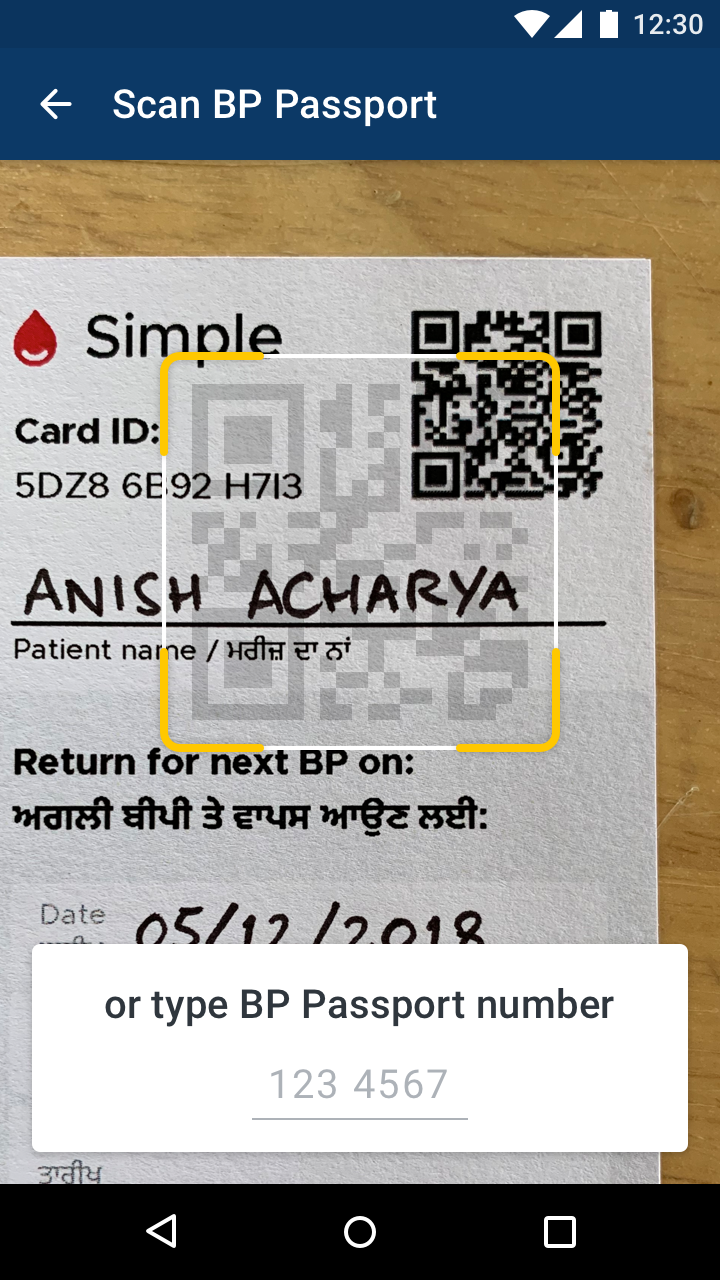
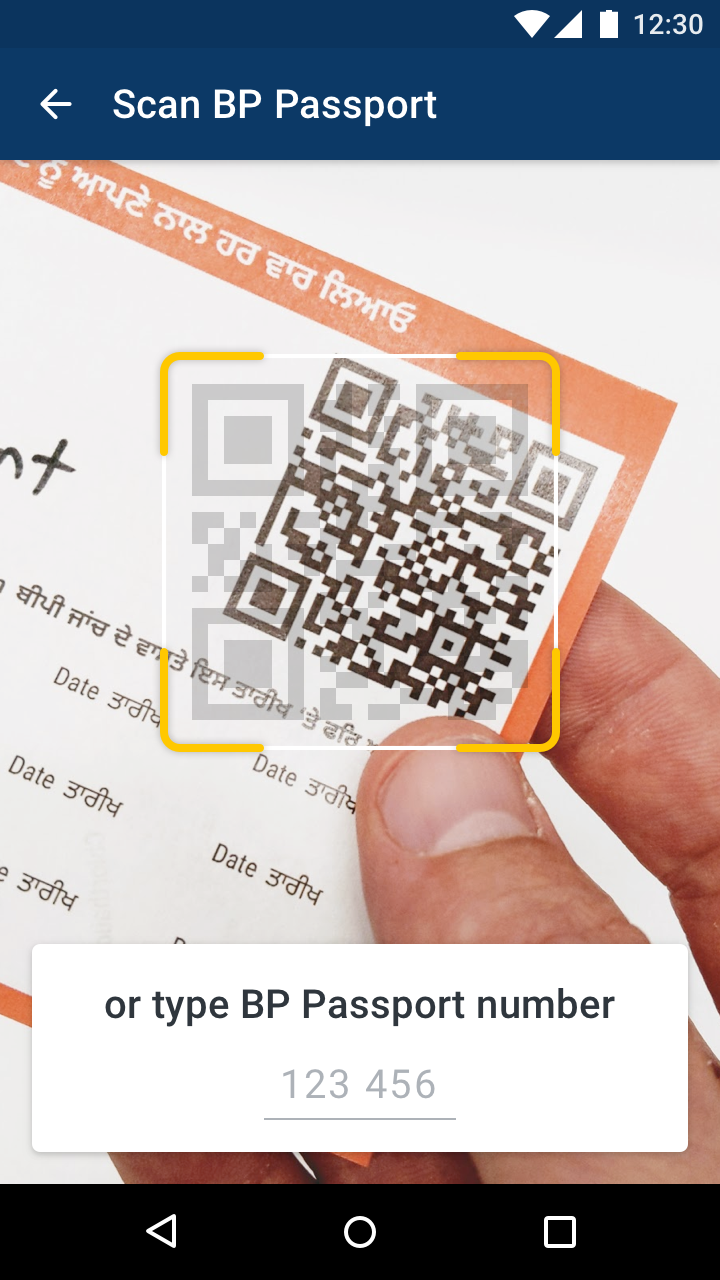
Site updated to e129a20

diff --git a/hi/screens/index.html b/hi/screens/index.html
@@ -90,6 +90,13 @@
         <i class="fas fa-search-plus"></i>
     </a>
     
+    <a href="../../images/screens/05-Scan-passport.png" class="mobile-screen-wrapper">
+        <span class="title"><strong>Scan "BP Passport"</strong></span>
+        <span class="mobile-screen" style="background-image: url(../../images/screens/05-Scan-passport.png);"><span class="mobile-screen-overlay"></span></span>
+        <span class="desc">Patients are given a paper ID called a BP Passport. Scan the QR code to immediately see the correct patient in Simple.</span>
+        <i class="fas fa-search-plus"></i>
+    </a>
+    
     <a href="../../images/screens/02-Patient-summary.png" class="mobile-screen-wrapper">
         <span class="title"><strong>Patient summary</strong></span>
         <span class="mobile-screen" style="background-image: url(../../images/screens/02-Patient-summary.png);"><span class="mobile-screen-overlay"></span></span>
@@ -128,7 +135,7 @@
     <a href="../../images/screens/04-Schedule.png" class="mobile-screen-wrapper">
         <span class="title"><strong>Schedule next visit</strong></span>
         <span class="mobile-screen" style="background-image: url(../../images/screens/04-Schedule.png);"><span class="mobile-screen-overlay"></span></span>
-        <span class="desc">At the end of each encounter, users are prompted to schedule the next visit. Patients who miss visits are prompted with an SMS reminder and then are added to an "Overdue" list for follow-up by a healthcare worker.</span>
+        <span class="desc">At the end of each encounter, users schedule the next visit date. Patients who miss visits are prompted with an SMS reminder and then are added to an "Overdue" list for follow-up by a healthcare worker.</span>
         <i class="fas fa-search-plus"></i>
     </a>
     

diff --git a/pn/screens/index.html b/pn/screens/index.html
@@ -84,6 +84,13 @@
         <i class="fas fa-search-plus"></i>
     </a>
     
+    <a href="../../images/screens/05-Scan-passport.png" class="mobile-screen-wrapper">
+        <span class="title"><strong>Scan "BP Passport"</strong></span>
+        <span class="mobile-screen" style="background-image: url(../../images/screens/05-Scan-passport.png);"><span class="mobile-screen-overlay"></span></span>
+        <span class="desc">Patients are given a paper ID called a BP Passport. Scan the QR code to immediately see the correct patient in Simple.</span>
+        <i class="fas fa-search-plus"></i>
+    </a>
+    
     <a href="../../images/screens/02-Patient-summary.png" class="mobile-screen-wrapper">
         <span class="title"><strong>Patient summary</strong></span>
         <span class="mobile-screen" style="background-image: url(../../images/screens/02-Patient-summary.png);"><span class="mobile-screen-overlay"></span></span>
@@ -122,7 +129,7 @@
     <a href="../../images/screens/04-Schedule.png" class="mobile-screen-wrapper">
         <span class="title"><strong>Schedule next visit</strong></span>
         <span class="mobile-screen" style="background-image: url(../../images/screens/04-Schedule.png);"><span class="mobile-screen-overlay"></span></span>
-        <span class="desc">At the end of each encounter, users are prompted to schedule the next visit. Patients who miss visits are prompted with an SMS reminder and then are added to an "Overdue" list for follow-up by a healthcare worker.</span>
+        <span class="desc">At the end of each encounter, users schedule the next visit date. Patients who miss visits are prompted with an SMS reminder and then are added to an "Overdue" list for follow-up by a healthcare worker.</span>
         <i class="fas fa-search-plus"></i>
     </a>
     

diff --git a/zh/screens/index.html b/zh/screens/index.html
@@ -84,6 +84,13 @@
         <i class="fas fa-search-plus"></i>
     </a>
     
+    <a href="../../images/screens/05-Scan-passport.png" class="mobile-screen-wrapper">
+        <span class="title"><strong>Scan "BP Passport"</strong></span>
+        <span class="mobile-screen" style="background-image: url(../../images/screens/05-Scan-passport.png);"><span class="mobile-screen-overlay"></span></span>
+        <span class="desc">Patients are given a paper ID called a BP Passport. Scan the QR code to immediately see the correct patient in Simple.</span>
+        <i class="fas fa-search-plus"></i>
+    </a>
+    
     <a href="../../images/screens/02-Patient-summary.png" class="mobile-screen-wrapper">
         <span class="title"><strong>Patient summary</strong></span>
         <span class="mobile-screen" style="background-image: url(../../images/screens/02-Patient-summary.png);"><span class="mobile-screen-overlay"></span></span>
@@ -122,7 +129,7 @@
     <a href="../../images/screens/04-Schedule.png" class="mobile-screen-wrapper">
         <span class="title"><strong>Schedule next visit</strong></span>
         <span class="mobile-screen" style="background-image: url(../../images/screens/04-Schedule.png);"><span class="mobile-screen-overlay"></span></span>
-        <span class="desc">At the end of each encounter, users are prompted to schedule the next visit. Patients who miss visits are prompted with an SMS reminder and then are added to an "Overdue" list for follow-up by a healthcare worker.</span>
+        <span class="desc">At the end of each encounter, users schedule the next visit date. Patients who miss visits are prompted with an SMS reminder and then are added to an "Overdue" list for follow-up by a healthcare worker.</span>
         <i class="fas fa-search-plus"></i>
     </a>
     

diff --git a/screens/index.html b/screens/index.html
@@ -80,6 +80,13 @@
         <i class="fas fa-search-plus"></i>
     </a>
     
+    <a href="../images/screens/05-Scan-passport.png" class="mobile-screen-wrapper">
+        <span class="title"><strong>Scan "BP Passport"</strong></span>
+        <span class="mobile-screen" style="background-image: url(../images/screens/05-Scan-passport.png);"><span class="mobile-screen-overlay"></span></span>
+        <span class="desc">Patients are given a paper ID called a BP Passport. Scan the QR code to immediately see the correct patient in Simple.</span>
+        <i class="fas fa-search-plus"></i>
+    </a>
+    
     <a href="../images/screens/02-Patient-summary.png" class="mobile-screen-wrapper">
         <span class="title"><strong>Patient summary</strong></span>
         <span class="mobile-screen" style="background-image: url(../images/screens/02-Patient-summary.png);"><span class="mobile-screen-overlay"></span></span>
@@ -118,7 +125,7 @@
     <a href="../images/screens/04-Schedule.png" class="mobile-screen-wrapper">
         <span class="title"><strong>Schedule next visit</strong></span>
         <span class="mobile-screen" style="background-image: url(../images/screens/04-Schedule.png);"><span class="mobile-screen-overlay"></span></span>
-        <span class="desc">At the end of each encounter, users are prompted to schedule the next visit. Patients who miss visits are prompted with an SMS reminder and then are added to an "Overdue" list for follow-up by a healthcare worker.</span>
+        <span class="desc">At the end of each encounter, users schedule the next visit date. Patients who miss visits are prompted with an SMS reminder and then are added to an "Overdue" list for follow-up by a healthcare worker.</span>
         <i class="fas fa-search-plus"></i>
     </a>
     
